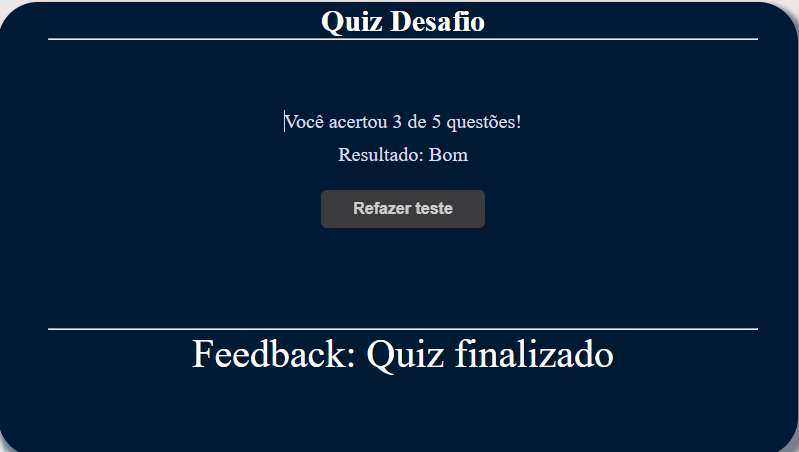
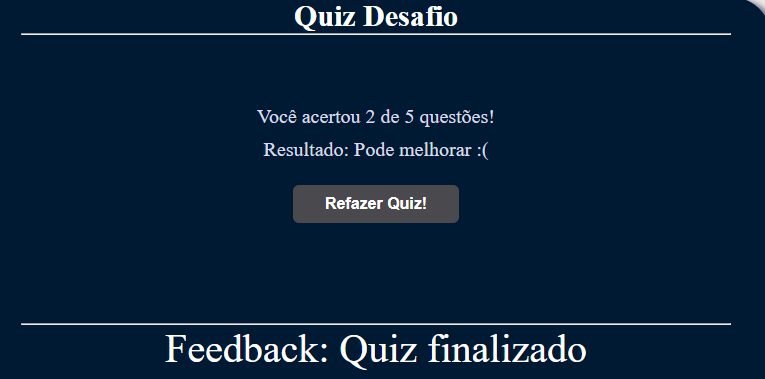
play

diff --git a/desafio_desenvolve_1/index.js b/desafio_desenvolve_1/index.js
@@ -234,7 +234,7 @@ function finishGame() {
           <span>Resultado: ${message}</span>
       </p>
       <button onclick=window.location.reload() class="button">
-          Refazer teste
+          Refazer Quiz!
       </button>
   `;
 }

diff --git a/Readme.md b/Readme.md
@@ -20,3 +20,6 @@ Após responder, você ira clicar na opção, proxima pergunta.</p>
 No final do quiz, existe uma contagem de acertos / total de perguntas </p>
 <img src="images/contagem.png" alt="Alt Text" width="800">
 Após reponder, vai aparecer opção refazer quiz! </p>
+
+
+ - Vamos jogar? Link: https://desafioquizdesenvolvebrsantos.s3.us-east-2.amazonaws.com/quiz/index.html
